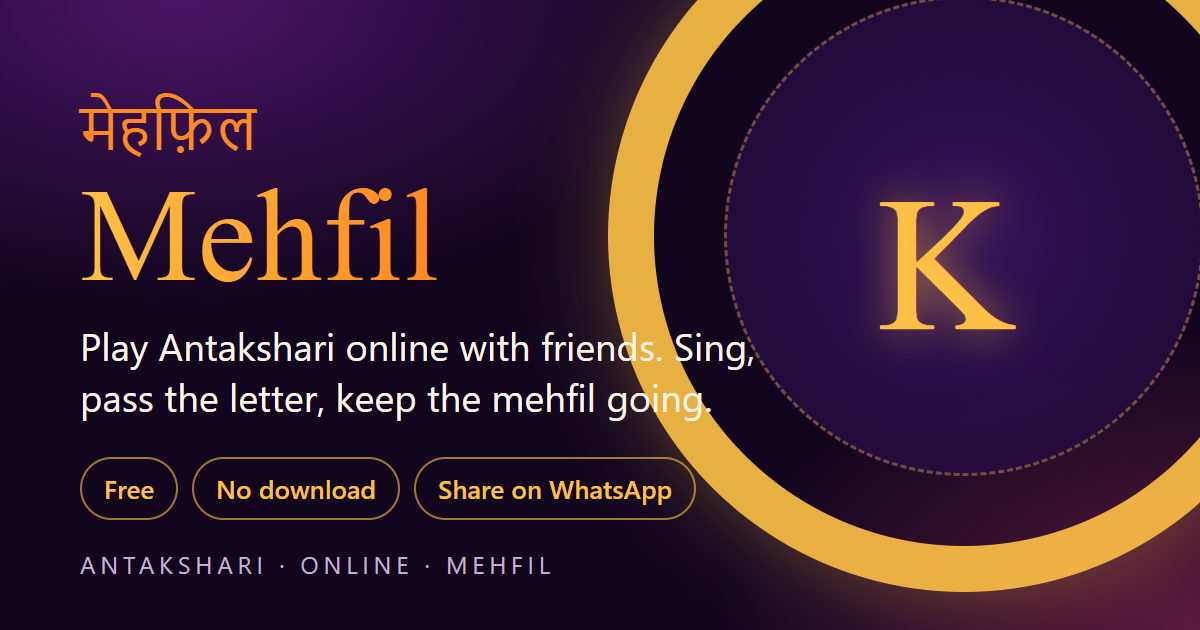
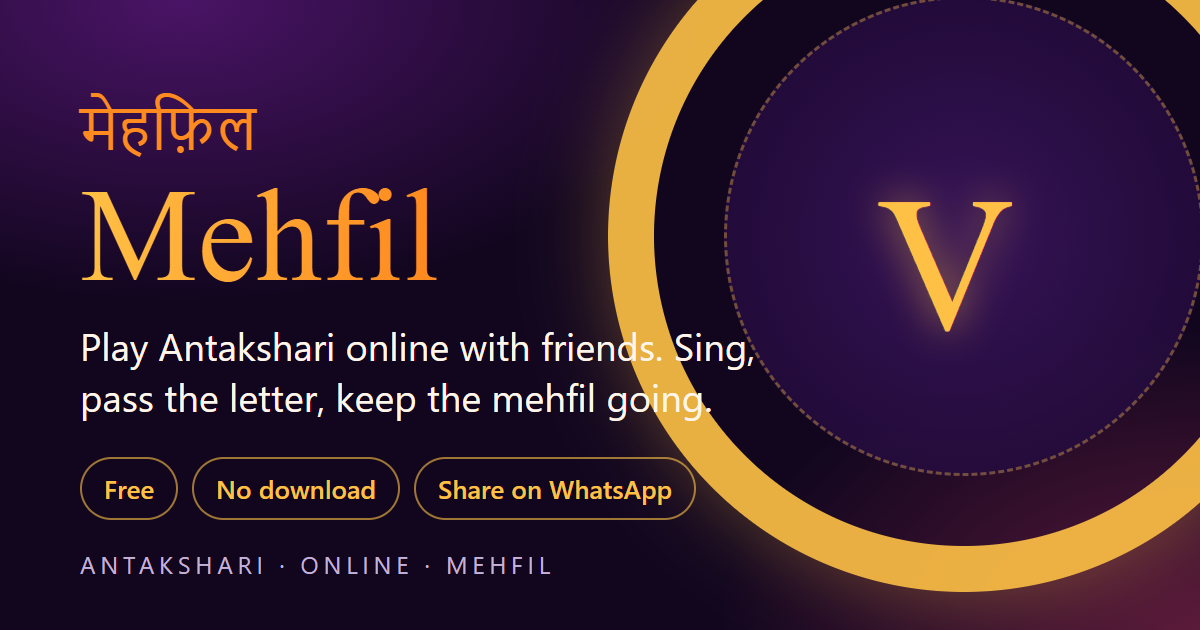
Hindi letters, themed votes, link-only tables, chat safety, streaks, offline
- Hindi/Marathi tables show the Devanagari letter big (English letter to type)
- Vote question follows the theme (90s, actor, tune)
- Host can make any table link-only; Play now tables are link-only
- Bad-word filter for chat, names, city and bio (spares real names)
- Tap a name in chat to open the profile (Block, Report)
- Day streak on home, crown for this week's top singer, Following tag
- Hints include Mehfil's own songs; open tables show their language
- First-turn one-line how-to; seats glow with each person's voice
- Works offline: app shell cached, clear offline bar, no crash
- Link preview image shows V instead of K
- 11 new acceptance tests (57 pass)

Changed region(s): [[0.74, 0.3016, 0.8633, 0.5429]]

diff --git a/public/app.js b/public/app.js
@@ -200,7 +200,13 @@ function av(p, extra = '') {
 }
 
 /* ---------- socket ---------- */
-const socket = io({ transports: ['websocket', 'polling'] });
+// Opened with no internet, the live-connection library may not load: use a stand-in so the page still works.
+const socket = typeof io === 'function' ? io({ transports: ['websocket', 'polling'] }) : { on() {}, emit() {}, connected: false };
+if (!navigator.onLine || typeof io !== 'function') {
+  $('#netbar').textContent = "You're offline. Mehfil will reconnect when you're back.";
+  $('#netbar').hidden = false;
+}
+if (typeof io !== 'function') window.addEventListener('online', () => location.reload());
 socket.on('connect', () => { $('#netbar').hidden = true; socket.emit('hello', { token: S.token }); });
 socket.on('disconnect', () => { $('#netbar').hidden = false; });
 socket.on('me', m => {
@@ -304,7 +310,7 @@ function personCard(p) {
     ? `<button class="btn btn-line btn-sm" data-act="req" data-arg="${esc(p.token)}">Invite</button>`
     : `<span class="pstate">${S.sent.has(p.token) ? 'Invited' : 'Busy'}</span>`;
   return `<div class="icard" data-act="profile" data-arg="${esc(p.token)}">${av(p)}
-    <div class="who"><div class="nm">${esc(p.name)}${p.bot ? '<span class="aib">AI</span>' : p.verified ? '<span class="tick">✓</span>' : ''}</div>
+    <div class="who"><div class="nm">${esc(p.name)}${p.bot ? '<span class="aib">AI</span>' : p.verified ? '<span class="tick">✓</span>' : ''}${p.followed ? '<span class="fol">★ Following</span>' : ''}</div>
     <div class="hd">${p.bot ? esc(p.bio || 'AI singer') : '@' + esc(p.handle) + (p.city ? ' · ' + esc(p.city) : '')}</div>
     ${p.bot ? '' : `<div class="st ${p.status === 'free' ? '' : 'busy'}">${statusText(p)}</div>`}</div>
     <div class="col">${btn}</div></div>`;
@@ -312,10 +318,11 @@ function personCard(p) {
 function renderLobby() {
   if (S.table) return;
   const first = (S.me?.name || '').split(' ')[0];
-  $('#hello').textContent = first ? `Namaste, ${first} 👋` : '';
+  const streak = S.me?.streak || 0;
+  $('#hello').innerHTML = first ? esc(`Namaste, ${first} 👋`) + (streak >= 2 ? ` <span class="streak">🔥 ${streak} days in a row</span>` : '') : '';
   // Open tables: only shown when there are some.
   $('#tables-card').hidden = !S.lobby.tables.length;
-  $('#lobby-tables').innerHTML = S.lobby.tables.map(t => `<div class="tcard"><div><b>${t.type === 'jam' ? '🎶 Sing together' : '🎤 Antakshari'}</b><small>Host: ${esc(t.host)} · ${t.count}/${t.max}${t.theme ? ' · ' + esc(t.theme) : ''}${t.state === 'playing' ? ' · game on, join to listen' : ''}</small></div><button class="btn btn-line btn-sm" data-act="join-tap" data-arg="${esc(t.code)}">Join</button></div>`).join('');
+  $('#lobby-tables').innerHTML = S.lobby.tables.map(t => `<div class="tcard"><div><b>${t.type === 'jam' ? '🎶 Sing together' : '🎤 Antakshari'}</b><small>Host: ${esc(t.host)} · ${t.count}/${t.max}${t.theme ? ' · ' + esc(t.theme) : ''}${t.lang ? ' · ' + esc(t.lang) : ''}${t.state === 'playing' ? ' · game on, join to listen' : ''}</small></div><button class="btn btn-line btn-sm" data-act="join-tap" data-arg="${esc(t.code)}">Join</button></div>`).join('');
   // Real people and AI singers are always shown apart.
   const humans = S.lobby.people.filter(p => !p.bot), ais = S.lobby.people.filter(p => p.bot);
   $('#friends-card').hidden = !humans.length;
@@ -334,7 +341,7 @@ function renderLobby() {
 }
 function renderBoard() {
   $('#board').innerHTML = S.board.length
-    ? S.board.map((r, i) => `<li><span>${i + 1}.</span><b>${esc(r.name)}</b><span class="muted">@${esc(r.handle)}</span><b>${r.points}</b></li>`).join('')
+    ? S.board.map((r, i) => `<li class="${i === 0 ? 'top' : ''}"><span>${i === 0 ? '👑' : i + 1 + '.'}</span><b>${esc(r.name)}</b><span class="muted">@${esc(r.handle)}</span><b>${r.points}</b></li>`).join('')
     : '<li class="board-empty">No scores yet this week.<br>Win a song to be first on the board.</li>';
 }
 
@@ -544,13 +551,13 @@ function renderStage() {
     const out = v.type === 'game' && v.state === 'playing' && m.role === 'singer' && m.lives <= 0;
     const hearts = v.type === 'game' ? `<div class="hearts">${'❤'.repeat(Math.max(0, m.lives))}<span style="opacity:.25">${'❤'.repeat(Math.max(0, v.settings.lives - m.lives))}</span></div>` : '';
     const onStage = v.type === 'jam' && m.isStage;
-    return `<div class="seat ${isTurn ? 'turn' : ''} ${out ? 'out' : ''}" style="left:${x}%;top:${y}%" title="${esc(m.name)}">
+    return `<div class="seat ${isTurn ? 'turn' : ''} ${out ? 'out' : ''}" style="left:${x}%;top:${y}%" title="${esc(m.name)}"${m.bot ? '' : ` data-tok="${esc(m.token)}"`}>
       <div class="seatav">${av(m)}${m.isHost ? '<span class="crown">👑</span>' : ''}${isTurn || onStage ? '<span class="micb">🎤</span>' : ''}</div>
       <div class="nm">${m.bot ? '<span class="aib">AI</span>' : ''}${esc(m.name.split(' ')[0])}${m.role === 'listener' ? ' · listening' : ''}</div>${hearts}
       ${v.type === 'game' ? `<div class="meta">${m.score} pts${teams && m.team ? ' · ' + m.team : ''}</div>` : ''}</div>`;
   }).join('');
   const verify = v.verifying ? `<div class="verify">
-      <p>Did <b>${esc(v.members.find(m => m.token === v.verifying.singer)?.name || 'the singer')}</b> sing <b>“${esc(v.verifying.song)}”</b>? Next letter: <b>${esc(v.verifying.next)}</b></p>
+      <p>${voteQuestion(v)} Next letter: <b>${esc(v.verifying.next)}</b></p>
       ${v.verifying.canVote && !v.verifying.myVote ? `<div class="row"><button class="btn btn-line btn-sm" data-act="vote" data-arg="up">👍 Yes</button><button class="btn btn-line btn-sm" data-act="vote" data-arg="down">👎 No</button></div>` : `<p class="muted">${v.verifying.canVote ? 'Thanks, your vote is in' : 'Waiting for the table to vote…'}</p>`}
       <div class="counts">👍 ${v.verifying.up} · 👎 ${v.verifying.down}</div></div>` : '';
   let center;
@@ -558,8 +565,9 @@ function renderStage() {
     center = `<div><div class="letterlabel">Sing together</div><div class="letter" style="font-size:44px">🎶</div>
       <div class="secs">${v.stage ? `On stage: ${esc(v.members.find(m => m.token === v.stage)?.name || '')}` : 'Take the stage to lead a song'}</div></div>`;
   } else if (v.state === 'playing') {
+    const dv = v.settings.lang !== 'en' && v.deva;
     center = `<div><div class="letterlabel">Start with</div>
-      <div class="letter">${esc(v.letter)}</div><div class="secs">${esc(v.deva || '')}</div>
+      <div class="letter">${esc(dv ? v.deva : v.letter)}</div><div class="secs">${esc(dv ? v.letter : (v.deva || ''))}</div>
       <div class="secs" id="secs"></div>
       <div class="eq" id="eq">${'<i></i>'.repeat(16)}</div>
       <div class="secs">${v.turn === S.token ? 'Your turn' : esc(turnName(v).split(' ')[0]) + ' is singing'}</div>
@@ -580,6 +588,23 @@ function renderStage() {
     : v.state === 'playing' ? lastSongLine(v) : '';
   $('#t-stage').innerHTML = `<div class="stage" id="stage"><div class="rug"></div>${ring}<div class="center">${center}</div>${seats}${verify}</div>${lyric}${teamLine}${crowd}`;
   if (v.state === 'playing' && v.type === 'game') tickOnce();
+}
+// The vote question follows the game's theme, so the table judges the right thing.
+function voteQuestion(v) {
+  const who = `<b>${esc(v.members.find(m => m.token === v.verifying.singer)?.name.split(' ')[0] || 'the singer')}</b>`;
+  const song = `<b>“${esc(v.verifying.song)}”</b>`;
+  if (v.settings.theme === 'decade') return `Did ${who} sing ${song}, and is it from the 90s?`;
+  if (v.settings.theme === 'actor') return `Did ${who} sing ${song}, a song of the actor they named?`;
+  if (v.settings.theme === 'dhun') return `Did ${who} get the tune of ${song} right?`;
+  return `Did ${who} sing ${song}?`;
+}
+// The line under "Your turn": the letter in the table's script, and a short how-to the first time.
+function turnLead(v) {
+  const dv = v.settings.lang !== 'en' && v.deva;
+  const chip = `<span class="chipletter">${esc(dv ? v.deva : v.letter)}</span> ${esc(dv ? '(type ' + v.letter + ')' : v.deva || '')}`;
+  const rule = v.settings.theme !== 'classic' ? ` ${esc(v.themeRule || '')}` : '';
+  if (store.get('ak-tut')) return `Sing a song starting with ${chip}.${rule}`;
+  return `First time? Sing out loud any song starting with ${chip}, then type its name and press Done. Its last word sets the next letter.${rule}`;
 }
 // "Last: song by name" under the letter, so the next singer has context.
 function lastSongLine(v) {
@@ -646,7 +671,7 @@ function renderAction() {
       box.classList.add('yourturn');
       const hint = S.hints && S.hints.letter === v.letter ? `<div class="hints">${S.hints.titles.map(t => `<span>${esc(t)}</span>`).join('')}</div>` : '';
       box.innerHTML = `<div class="act-title">Your turn 🎤</div>
-        <p class="lead">Sing a song starting with <span class="chipletter">${esc(v.letter)}</span> ${esc(v.deva || '')}${v.settings.theme !== 'classic' ? '. ' + esc(v.themeRule || '') : ''}</p>
+        <p class="lead">${turnLead(v)}</p>
         <input class="song-in" id="in-song" maxlength="80" placeholder="Song you sang, starting with ${esc(v.letter)}" autocomplete="off" enterkeyhint="done" value="${esc(keep.song)}">
         <label class="lastword"><span>Last word you sang</span>
           <input class="song-in" id="in-last" maxlength="30" placeholder="Filled from the title" autocomplete="off" enterkeyhint="done" value="${esc(keep.last)}"></label>
@@ -748,13 +773,14 @@ function membersHtml(v) {
 }
 
 function settingsHtml(v) {
-  if (v.type === 'jam') return '<p class="muted">Sing together has no game settings. Everyone talks, and the queue is on the main screen.</p>';
   const s = v.settings;
+  const privacy = v.isHost ? `<label class="switch">Link only (hide from Open tables) <input type="checkbox" ${s.private ? 'checked' : ''} data-act="toggle-private" aria-label="Link only"></label>` : '';
+  if (v.type === 'jam') return privacy + '<p class="muted">Sing together has no game settings. Everyone talks, and the queue is on the main screen.</p>';
   if (!v.isHost || v.state === 'playing') {
-    return `<p class="muted">Game: ${esc(v.themeLabel)} · ${s.turnSec}s a turn · ${s.lives} ❤ · everyone talks${s.teams ? ' · teams' : ''}</p>
+    return privacy + `<p class="muted">Game: ${esc(v.themeLabel)} · ${s.turnSec}s a turn · ${s.lives} ❤ · everyone talks${s.teams ? ' · teams' : ''}</p>
       <p class="muted">Only the host can change these before a game.</p>`;
   }
-  return `<span class="lbl">Theme</span><div class="chips">${THEMES.map(([k, l]) => `<button class="chip ${s.theme === k ? 'on' : ''}" data-act="set" data-arg="theme=${k}">${l}</button>`).join('')}</div>
+  return privacy + `<span class="lbl">Theme</span><div class="chips">${THEMES.map(([k, l]) => `<button class="chip ${s.theme === k ? 'on' : ''}" data-act="set" data-arg="theme=${k}">${l}</button>`).join('')}</div>
     <span class="lbl">Time per turn</span><div class="chips">${TURNS.map(t => `<button class="chip ${s.turnSec === t ? 'on' : ''}" data-act="set" data-arg="turnSec=${t}">${t}s</button>`).join('')}</div>
     <span class="lbl">Lives</span><div class="chips">${[1, 2, 3, 4, 5].map(n => `<button class="chip ${s.lives === n ? 'on' : ''}" data-act="set" data-arg="lives=${n}">${n} ❤</button>`).join('')}</div>
     <span class="lbl">Letters</span><div class="chips">${LANGS.map(([k, l]) => `<button class="chip ${s.lang === k ? 'on' : ''}" data-act="set" data-arg="lang=${k}">${l}</button>`).join('')}</div>
@@ -814,7 +840,7 @@ function renderChatLog() {
   if (!v || !box) return;
   const atBottom = box.scrollHeight - box.scrollTop - box.clientHeight < 40;
   box.innerHTML = v.chat.length ? v.chat.map(m => m.from
-    ? `<div class="msg"><b>${esc(m.name)}</b>${esc(m.text)}</div>`
+    ? `<div class="msg">${m.from === S.token ? `<b>${esc(m.name)}</b>` : `<b class="who-link" data-act="chat-profile" data-arg="${esc(m.from)}" role="button" tabindex="0">${esc(m.name)}</b>`}${esc(m.text)}</div>`
     : `<div class="msg sys">${esc(m.text)}</div>`).join('') : '<div class="msg sys">Say hello to the table 👋</div>';
   if (atBottom) box.scrollTop = box.scrollHeight;
 }
@@ -981,6 +1007,8 @@ const ACT = {
   'start-game': () => socket.emit('table:create', { type: 'game' }),
   'start-jam': () => socket.emit('table:create', { type: 'jam' }),
   'add-bot': () => socket.emit('table:addbot'),
+  'toggle-private': () => socket.emit('table:settings', { settings: { private: !S.table.settings.private } }),
+  'chat-profile': arg => { closeSheet(); openProfile(arg); },
   'all-ai': () => { S.showAllAI = true; renderLobby(); },
   'show-code': () => { $('#code-form').hidden = false; $('#show-code').hidden = true; $('#code-in').focus(); },
   'join-tap': arg => joinCode(arg),
@@ -1037,6 +1065,7 @@ const ACT = {
   'song-done': () => {
     socket.emit('turn:done', { song: $('#in-song')?.value || '', lastWord: $('#in-last')?.value || '' });
     S.draft = {}; S.lastTouched = false;
+    store.set('ak-tut', 'seen');
   },
   pass: () => socket.emit('turn:pass'),
   hint: () => socket.emit('turn:hint'),
@@ -1131,7 +1160,22 @@ document.addEventListener('submit', e => {
 $('#search')?.addEventListener('input', () => renderLobby());
 
 /* ---------- ambient loop, music preference and boot ---------- */
-(function tick() { tickOnce(); requestAnimationFrame(tick); })();
+// Each person's seat glows teal with their voice, so you can see who is talking.
+function seatLevels() {
+  if (!S.table) return;
+  $$('#t-stage .seat[data-tok]').forEach(el => {
+    const an = analyserFor(el.dataset.tok);
+    if (!an) return;
+    an.getByteFrequencyData(an._buf);
+    let peak = 0;
+    for (let i = 1; i < an._buf.length; i++) if (an._buf[i] > peak) peak = an._buf[i];
+    el.style.setProperty('--lvl', Math.min(1, peak / 200).toFixed(2));
+  });
+}
+(function tick() { tickOnce(); seatLevels(); requestAnimationFrame(tick); })();
+// 55. No internet: say so plainly; Socket.IO reconnects by itself when the connection is back.
+window.addEventListener('offline', () => { $('#netbar').textContent = "You're offline. Mehfil will reconnect when you're back."; $('#netbar').hidden = false; });
+window.addEventListener('online', () => { $('#netbar').textContent = 'Reconnecting…'; if (socket.connected) $('#netbar').hidden = true; });
 (() => {
   const L = $('.lights');
   if (L) L.innerHTML = '<i style="background:var(--gold);box-shadow:0 0 12px var(--gold)"></i><i style="background:var(--pink);box-shadow:0 0 12px var(--pink)"></i><i style="background:var(--teal);box-shadow:0 0 12px var(--teal)"></i><i style="background:var(--saffron);box-shadow:0 0 12px var(--saffron)"></i>'.repeat(Math.max(3, Math.floor(innerWidth / 60)));

diff --git a/server.js b/server.js
@@ -91,6 +91,19 @@ function nextLetter(word) {
   return (w[i] || '').toUpperCase();
 }
 const today = () => new Date().toISOString().slice(0, 10);
+// A basic bad-word filter for chat, names, cities and bios (English and common Hindi/Marathi abuse).
+// The word keeps its first letter; the rest becomes stars. Song titles are not filtered.
+const BAD_WORDS = /\b(f+u+c+k+\w*|motherf\w*|sh[i1]t+(?:ty|s|head)?|b[i1]tch\w*|bastard\w*|assholes?|cunts?|dicks?|sluts?|whores?|chut[iy]+[aey]*|madarch[o0]+d\w*|maderch[o0]+d\w*|bh?e?h?enc?h[o0]+d\w*|bhosd\w*|g[a@]a?ndu|randi(?:ya|yan|baaz)?|laud[ae]\w*|lavd[ae]\w*|lund\w*|bhadw[ae]\w*|chinal\w*|zavady[ae]\w*|haraami\w*|harami\w*)\b/gi;
+const tidy = s => String(s || '').replace(BAD_WORDS, w => w[0] + '*'.repeat(w.length - 1));
+// Days in a row the person opened Mehfil, ending today (or yesterday, so the streak shows until they play today).
+function streakOf(days = []) {
+  const set = new Set(days);
+  const d = new Date();
+  if (!set.has(d.toISOString().slice(0, 10))) d.setUTCDate(d.getUTCDate() - 1);
+  let n = 0;
+  while (set.has(d.toISOString().slice(0, 10))) { n++; d.setUTCDate(d.getUTCDate() - 1); }
+  return n;
+}
 const weekKey = () => {
   const d = new Date(); d.setUTCHours(0, 0, 0, 0);
   d.setUTCDate(d.getUTCDate() + 4 - (d.getUTCDay() || 7));
@@ -117,10 +130,10 @@ function parseImage(s) {
 
 // Applies the profile the browser sent. Keeps the old photo if none is sent.
 function applyProfile(person, p) {
-  person.name = clean(p.name, 20);
+  person.name = tidy(clean(p.name, 20));
   person.handle = uniqueHandle(p.handle || person.name, person.token);
-  person.city = clean(p.city, 30);
-  person.bio = clean(p.bio, 120);
+  person.city = tidy(clean(p.city, 30));
+  person.bio = tidy(clean(p.bio, 120));
   person.defaultSeed = person.name || 'Singer'; // the classic default avatar is the person's initials
   if (p.photo !== undefined) person.photo = parseImage(p.photo);
   if (Array.isArray(p.posts)) person.posts = p.posts.slice(0, MAX_POSTS).map(parseImage).filter(Boolean);
@@ -153,6 +166,7 @@ function publicPerson(token) {
     photo: bot ? p.photo : p.photo ? `/p/${token}/photo?v=${p.ver}` : null,
     posts: bot ? [] : (p.posts || []).map((_, i) => `/p/${token}/post/${i}?v=${p.ver}`),
     sung: p.sung || 0, wins: p.wins || 0, followers: bot ? 0 : followersOf(token), badges, status,
+    streak: bot ? 0 : streakOf(p.days),
     online: isOnline(token), tableCode: t ? t.code : null,
   };
 }
@@ -188,10 +202,11 @@ function peopleFor(viewer) {
 }
 function tablesFor(viewer) {
   return [...tables.values()]
-    .filter(t => t.state !== 'hidden' && [...t.members.keys()].some(isHuman) && t.members.size < capacity(t))
+    .filter(t => t.state !== 'hidden' && !t.settings.private && [...t.members.keys()].some(isHuman) && t.members.size < capacity(t))
     .filter(t => ![...t.members.keys()].some(m => blockedEither(viewer, m)))
     .map(t => ({ code: t.code, type: t.type, host: personOf(t.hostToken)?.name || 'Host',
-      count: t.members.size, max: capacity(t), state: t.state, theme: THEMES[t.settings.theme]?.label || '' }));
+      count: t.members.size, max: capacity(t), state: t.state, theme: THEMES[t.settings.theme]?.label || '',
+      lang: t.type === 'game' ? ({ en: 'English', hi: 'हिन्दी', mr: 'मराठी' })[t.settings.lang] : '' }));
 }
 function pushLobby() {
   for (const [token, sid] of live) {
@@ -211,7 +226,7 @@ function createTable(type, hostToken, settings = {}) {
   const t = {
     code: newCode(), type, hostToken, members: new Map(), order: [],
     state: type === 'jam' ? 'jam' : 'lobby',
-    settings: { theme: 'classic', turnSec: 60, lives: 3, teams: false, lang: 'en', voice: 'call', ...pick(settings) },
+    settings: { theme: 'classic', turnSec: 60, lives: 3, teams: false, lang: 'en', voice: 'call', private: false, ...pick(settings) },
     letter: null, turnIdx: 0, turnEndsAt: null, timer: null, botTimer: null, verifyTimer: null, verifying: null,
     trail: [], chat: [], claps: 0, clapTotals: new Map(), winnerToken: null, winnerTeam: null, crowdFav: null,
     queue: [], nowPlaying: null, stage: null, botSong: null, botSing: null, createdAt: Date.now(),
@@ -227,6 +242,7 @@ function pick(s) {
   if (typeof s.teams === 'boolean') out.teams = s.teams;
   if (['turns', 'call'].includes(s.voice)) out.voice = s.voice;
   if (LANGS.includes(s.lang)) out.lang = s.lang;
+  if (typeof s.private === 'boolean') out.private = s.private;
   return out;
 }
 const turnMs = t => (t.settings.turnSec || 60) * 1000;
@@ -297,6 +313,7 @@ function leaveTable(token, why = 'left') {
 
 // Replace the table's chat with the new message, keeping the last 80.
 function addChat(t, from, text, extra = {}) {
+  if (from) text = tidy(text);
   const msg = { id: `${Date.now()}${Math.random().toString(36).slice(2, 6)}`, from, name: from ? personOf(from)?.name : 'Table', text, at: Date.now(), ...extra };
   t.chat.push(msg);
   if (t.chat.length > 80) t.chat.shift();
@@ -628,7 +645,7 @@ io.on('connection', socket => {
     const picks = freeBots().slice(0, 2);
     if (!picks.length) return toast('All AI singers are busy. Try again in a minute.');
     leaveTable(token);
-    const t = createTable('game', token);
+    const t = createTable('game', token, { private: true });
     joinTable(t, token, { silent: true });
     picks.forEach(b => joinTable(t, b, { silent: true }));
     addChat(t, null, `${picks.map(b => personOf(b).name).join(' and ')} joined. Let's sing!`);
@@ -664,12 +681,19 @@ io.on('connection', socket => {
 
   socket.on('table:settings', (p = {}) => {
     const t = myTable();
-    if (!t || t.hostToken !== token || t.state === 'playing' || t.type !== 'game') return;
+    if (!t || t.hostToken !== token) return;
+    if (typeof p.settings?.private === 'boolean' && (t.type === 'jam' || t.state === 'playing')) {
+      t.settings.private = p.settings.private;
+      pushTable(t); pushLobby();
+      return;
+    }
+    if (t.state === 'playing' || t.type !== 'game') return;
     const next = pick({ ...t.settings, ...p.settings, theme: p.settings?.theme ?? t.settings.theme, turnSec: p.settings?.turnSec ?? t.settings.turnSec });
     if (p.settings?.theme && p.settings.turnSec === undefined) next.turnSec = THEMES[p.settings.theme].turnSec;
     t.settings = { ...t.settings, ...next };
     if (typeof p.settings?.teams === 'boolean') t.settings.teams = p.settings.teams;
     pushTable(t);
+    if (typeof p.settings?.private === 'boolean') pushLobby();
   });
 
   socket.on('table:start', () => {
@@ -704,7 +728,9 @@ io.on('connection', socket => {
     if (!t || t.state !== 'playing' || currentToken(t) !== token || t.verifying) return;
     const m = memberOf(t, token);
     const used = new Set(t.trail.filter(x => x.song).map(x => x.song.toLowerCase()));
-    const titles = (SONGS[t.letter] || []).filter(s => !used.has(s.toLowerCase())).sort(() => Math.random() - 0.5).slice(0, 3);
+    const lib = librarySongsFor(t.letter, [...used]).map(x => x.title);
+    const film = (SONGS[t.letter] || []).filter(s => !used.has(s.toLowerCase()));
+    const titles = [...lib.sort(() => Math.random() - 0.5).slice(0, 1), ...film.sort(() => Math.random() - 0.5)].slice(0, 3);
     if (!titles.length) return toast('No hints left for this letter');
     if (m.score < HINT_COST) return toast(`A hint costs ${HINT_COST} points`);
     m.score -= HINT_COST;

diff --git a/tests/flow-test.js b/tests/flow-test.js
@@ -242,7 +242,46 @@ async function main() {
     await wait(300);
     check('AI singers cannot be added once the game has started', R.view?.members.length === 2);
 
-    for (const p of [A, B, C, D3, E, jamHost, extra, ...more, F, G, Q, R]) p.s.close();
+    console.log('\n10. Link-only tables, bad words, streaks');
+    const Lk = await person('Lata', { handle: 'lata' });
+    const Ob = await person('Om', { handle: 'om' });
+    await wait(300);
+    check('Play now tables are link-only (not in Open tables)', !Ob.lobby.tables.some(t => t.code === Q.view.code));
+    Lk.s.emit('table:create', { type: 'game' });
+    await wait(300);
+    const lkCode = Lk.view.code;
+    check('a new table is listed in Open tables', Ob.lobby.tables.some(t => t.code === lkCode));
+    Lk.s.emit('table:settings', { settings: { private: true } });
+    await wait(300);
+    check('host can make a table link-only', Lk.view.settings.private === true && !Ob.lobby.tables.some(t => t.code === lkCode));
+    Ob.s.emit('table:join', { code: lkCode });
+    await wait(300);
+    check('a link-only table can still be joined with its code', Ob.view?.code === lkCode);
+    Ob.s.emit('chat', { text: 'tu chutiya hai, what the fuck' });
+    await wait(300);
+    const said = Lk.chat.find(m => m.from === Ob.token)?.text || '';
+    check('bad words in chat are starred out', said.includes('c******') && said.includes('f***') && !/chutiya|fuck/i.test(said), said);
+    Ob.s.emit('chat', { text: 'Wah, Kishore da ka gaana!' });
+    await wait(300);
+    check('normal chat is left alone', Lk.chat.some(m => m.text === 'Wah, Kishore da ka gaana!'));
+    const Bw = await person('Bitch Please', { handle: 'bp' });
+    await wait(300);
+    const bwName = Ob.lobby.people.find(p => p.token === Bw.token)?.name || '';
+    check('bad words in names are starred out', bwName.startsWith('B****') && !/bitch/i.test(bwName), bwName);
+    check('people have a day streak', Lk.me?.profile?.streak >= 1, String(Lk.me?.profile?.streak));
+    // R's game (1 person + 1 AI singer) is running: making it link-only must hide it at once
+    check('a running game is listed before', Ob.lobby.tables.some(t => t.code === R.view.code) || true);
+    R.s.emit('table:settings', { settings: { private: true } });
+    await wait(300);
+    check('a running game can be made link-only', R.view.settings.private === true && !Lk.lobby.tables.some(t => t.code === R.view.code), JSON.stringify(R.view.settings));
+    const jamH = await person('Jasmine', { handle: 'jasmine' });
+    jamH.s.emit('table:create', { type: 'jam' });
+    await wait(300);
+    jamH.s.emit('table:settings', { settings: { private: true } });
+    await wait(300);
+    check('a Sing together table can be made link-only too', jamH.view.settings.private === true);
+
+    for (const p of [A, B, C, D3, E, jamHost, extra, ...more, F, G, Q, R, Lk, Ob, Bw, jamH]) p.s.close();
   } catch (err) {
     failed++;
     console.log('  ✗ test crashed:', err.message);

diff --git a/public/sw.js b/public/sw.js
@@ -1,7 +1,26 @@
-// Minimal service worker: makes Mehfil installable. Live play always goes to the network.
-self.addEventListener('install', e => self.skipWaiting());
-self.addEventListener('activate', e => e.waitUntil(self.clients.claim()));
+// Service worker: makes Mehfil installable and opens the app shell without internet.
+// Live play (Socket.IO) always needs the network; everything else is network-first with a saved copy.
+const CACHE = 'mehfil-v3';
+const SHELL = ['/', '/app.css', '/app.js', '/socket.io/socket.io.js', '/manifest.json', '/icon-192.png'];
+
+self.addEventListener('install', e => {
+  e.waitUntil(caches.open(CACHE).then(c => c.addAll(SHELL)).catch(() => {}).then(() => self.skipWaiting()));
+});
+self.addEventListener('activate', e => {
+  e.waitUntil(caches.keys()
+    .then(keys => Promise.all(keys.filter(k => k !== CACHE).map(k => caches.delete(k))))
+    .then(() => self.clients.claim()));
+});
 self.addEventListener('fetch', e => {
-  if (e.request.method !== 'GET') return;
-  e.respondWith(fetch(e.request).catch(() => caches.match(e.request)));
+  const req = e.request;
+  const url = new URL(req.url);
+  // Live connections are never cached; the connection library file itself is, so the page opens offline.
+  const live = url.pathname.startsWith('/socket.io/') && url.pathname !== '/socket.io/socket.io.js';
+  if (req.method !== 'GET' || url.origin !== self.location.origin || live) return;
+  e.respondWith(fetch(req)
+    .then(res => {
+      if (res.ok && res.type === 'basic') { const copy = res.clone(); caches.open(CACHE).then(c => c.put(req, copy)); }
+      return res;
+    })
+    .catch(() => caches.match(req).then(hit => hit || (req.mode === 'navigate' ? caches.match('/') : undefined))));
 });

diff --git a/public/app.css b/public/app.css
@@ -432,3 +432,12 @@ body.on-table .toasts{bottom:calc(96px + env(safe-area-inset-bottom))}
   body.on-table .wrap{padding-top:30px}
   .btn-xl{font-size:19px}
 }
+
+/* v5: streak, following, crown, chat names, voice glow */
+.streak{display:inline-block;margin-left:6px;padding:2px 9px;border-radius:999px;background:rgba(255,138,31,.16);color:var(--gold);font-size:12px;font-weight:600}
+.fol{display:inline-block;margin-left:6px;font-size:11px;font-weight:600;color:var(--gold)}
+.board-list li.top{background:rgba(255,193,69,.12);border:1px solid rgba(255,193,69,.35)}
+.who-link{cursor:pointer;text-decoration:underline;text-decoration-color:rgba(255,193,69,.35);text-underline-offset:3px}
+.who-link:hover{text-decoration-color:var(--gold)}
+/* a seat's ring grows with the person's voice (teal = live) */
+.seat .seatav{border-radius:50%;box-shadow:0 0 0 calc(var(--lvl, 0) * 8px) rgba(46,230,197,.45);transition:box-shadow .08s linear}
